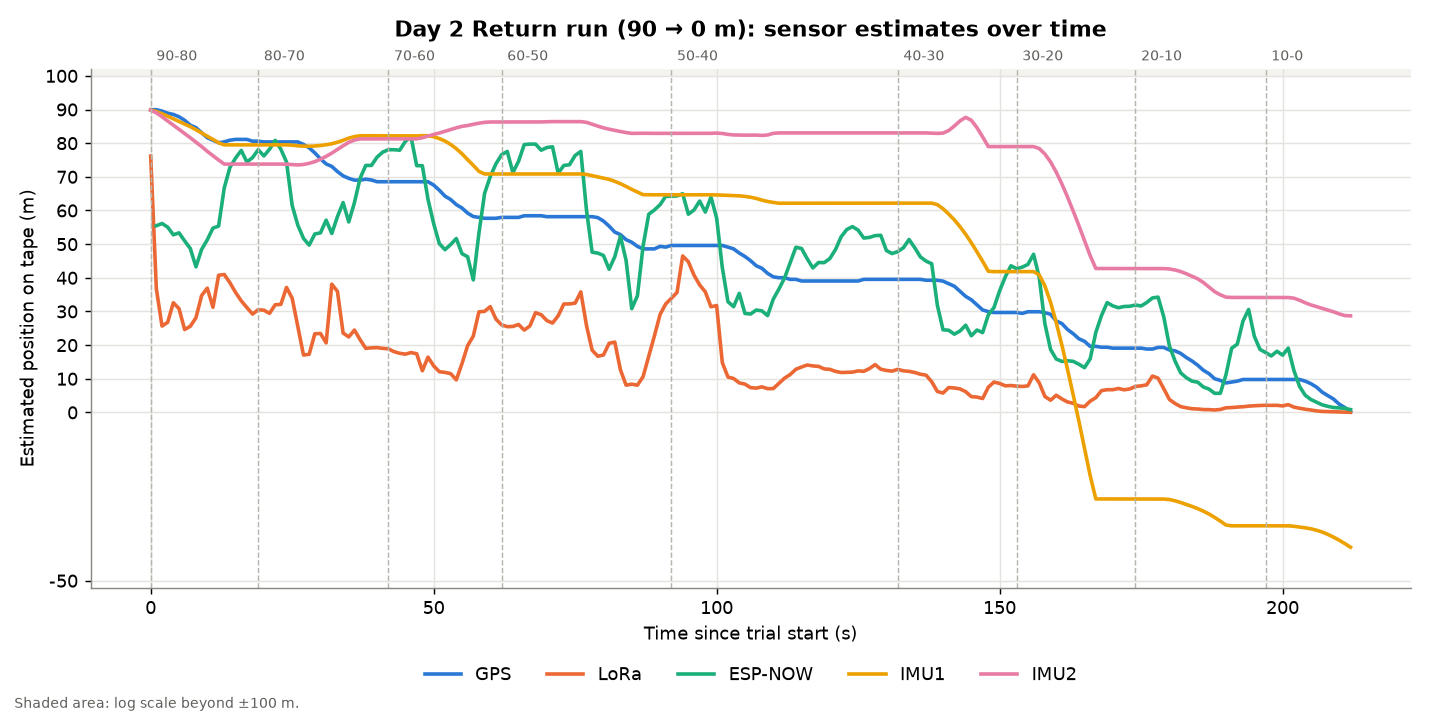
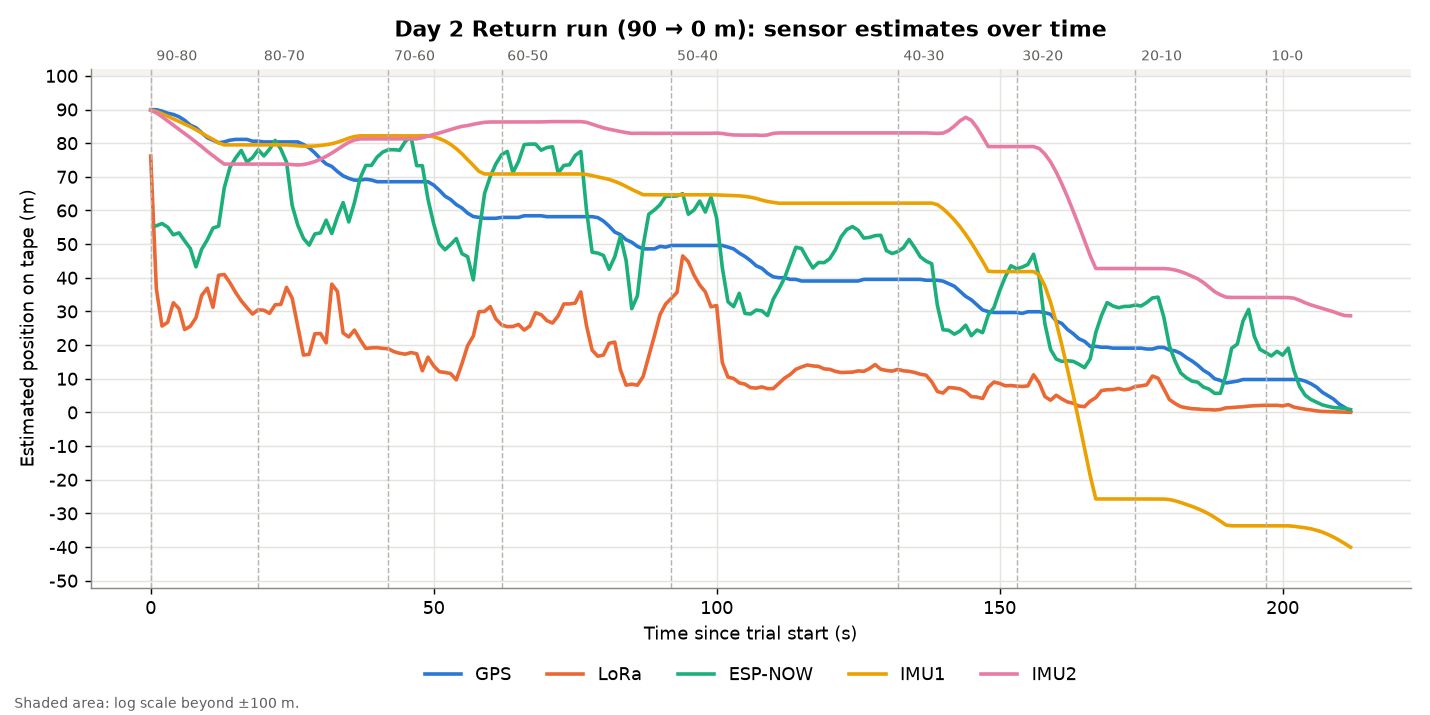
Add radio and IMU error-by-segment graphs
Claude-Session: https://claude.ai/code/session_01JDHCLu7DihRZ3TzTRGNBBv

Changed region(s): [[0.0308, 0.7077, 0.0615, 0.7692], [0.0308, 0.6154, 0.0615, 0.6769]]

diff --git a/analysis/plot_field_tests.py b/analysis/plot_field_tests.py
@@ -27,7 +27,7 @@ def tape_axis(ax, values, compact=False):
     lo, hi = min(-5, v.min() * 1.3), max(100, v.max() * 1.3)
     ax.set_yscale("symlog", linthresh=LIN, linscale=3)
     ax.set_ylim(lo, hi)
-    neg = (-10000, -1000, -100, -50) if compact else (-5000, -2000, -1000, -500, -200, -100, -50)
+    neg = (-10000, -1000, -100, -50) if compact else (-5000, -2000, -1000, -500, -200, -100) + tuple(range(-90, 0, 10))
     pos = (100, 1000, 10000) if compact else (100, 200, 500, 1000, 2000, 5000, 10000)
     ticks = [t for t in neg if t > lo] + list(range(0, 100, 20 if compact else 10)) + [t for t in pos if t < hi]
     ax.set_yticks(ticks, [str(t) for t in ticks])
@@ -128,6 +128,36 @@ ax.legend(frameon=False, ncol=4, loc="upper center", bbox_to_anchor=(0.5, -0.15)
 fig.tight_layout()
 fig.savefig(os.path.join(OUT, "gps_error_by_segment.png"))
 plt.close(fig)
+
+# 3b) radio and IMU error at each segment end (each pair side by side, same scale)
+def error_pair(names, filename):
+    fig, axes = plt.subplots(1, 2, figsize=(14, 5), sharey=True)
+    for ax, name in zip(axes, names):
+        ax.axhline(0, color="#5f5e5a", lw=1)
+        for trial, e in summ.dropna(subset=[f"{name} error (m)"]).groupby("Trial", sort=False):
+            tab = [k for k in TRIALS if k.endswith(trial)][0]
+            e = e.sort_values("True position (m)")
+            ax.plot(e["True position (m)"], e[f"{name} error (m)"], "o-", color=TRIAL_COLORS[tab], lw=2, ms=6,
+                    label=TRIALS[tab][0])
+        ax.set_title(f"{name} error at each segment end")
+        ax.set_xticks(range(0, 100, 10))
+        ax.set_xlabel("True position (m)")
+    for ax in axes:
+        tape_axis(ax, [summ[f"{n} error (m)"] for n in names])
+    axes[0].set_ylabel("Error: estimated - true (m)")
+    handles, labels = {}, {}
+    for ax in axes:
+        for h, l in zip(*ax.get_legend_handles_labels()):
+            handles[l] = h
+    fig.legend(handles.values(), handles.keys(), ncol=5, loc="lower center", frameon=False)
+    fig.text(0.01, 0.01, f"Shaded area: log scale beyond ±{LIN} m.", fontsize=8, color="#5f5e5a")
+    fig.tight_layout(rect=(0, 0.07, 1, 1))
+    fig.savefig(os.path.join(OUT, filename))
+    plt.close(fig)
+
+
+error_pair(("LoRa", "ESP-NOW"), "radio_error_by_segment.png")
+error_pair(("IMU1", "IMU2"), "imu_error_by_segment.png")
 
 # 4) median absolute error per sensor per trial (median so a few radio blow-ups don't dominate; log scale)
 err = {}
